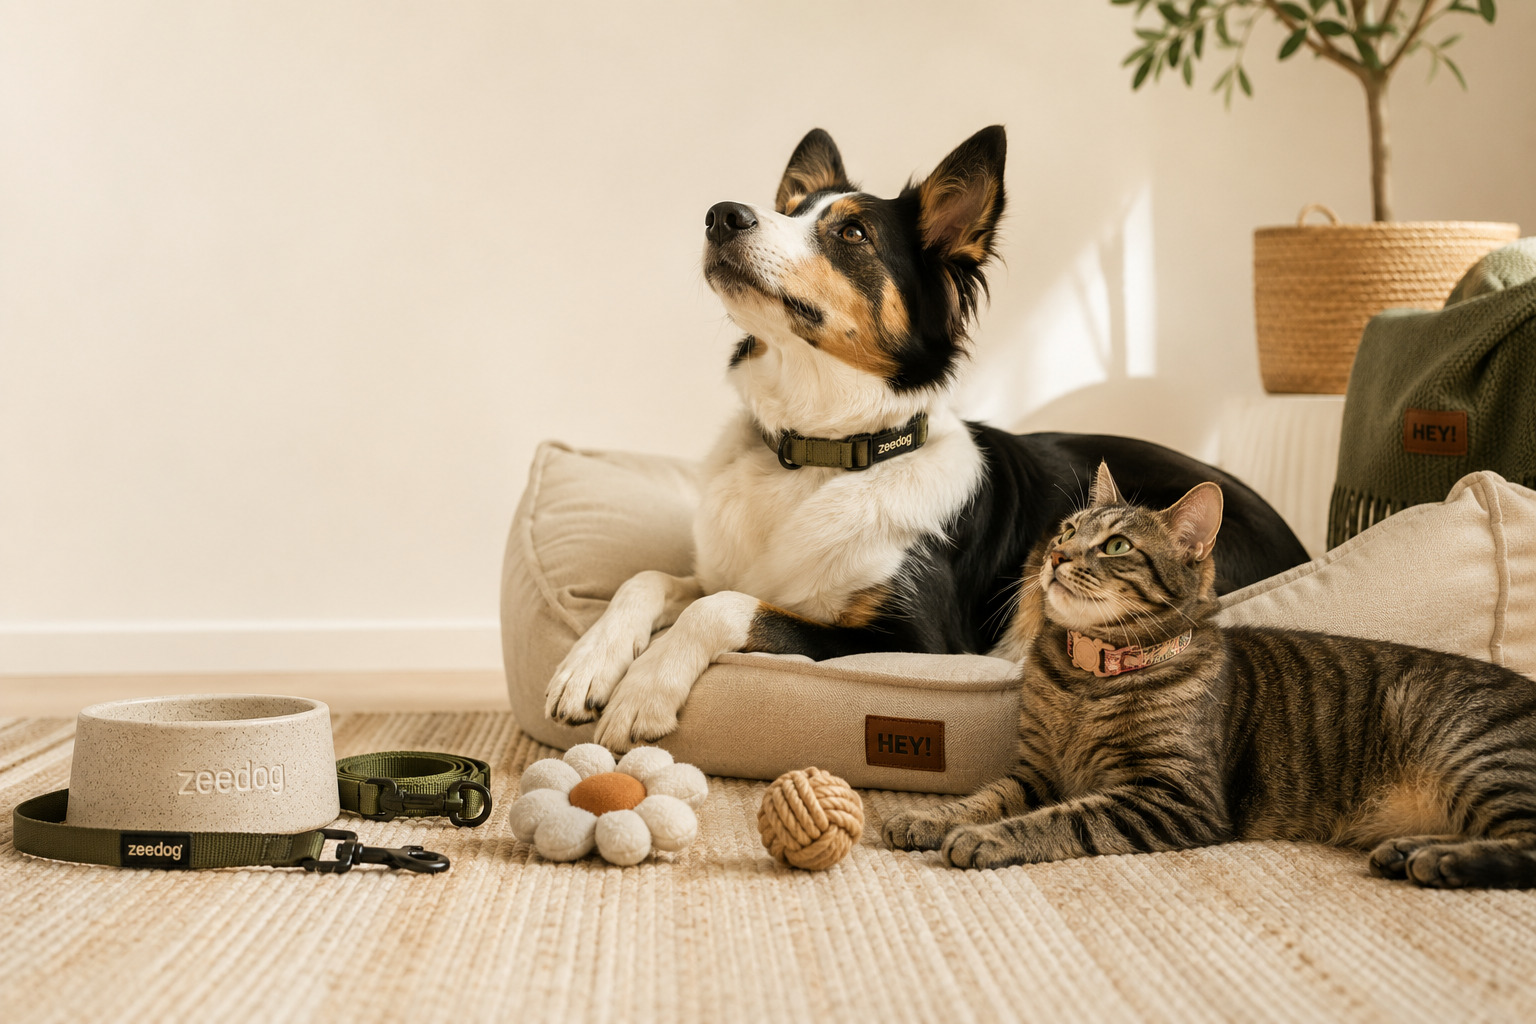
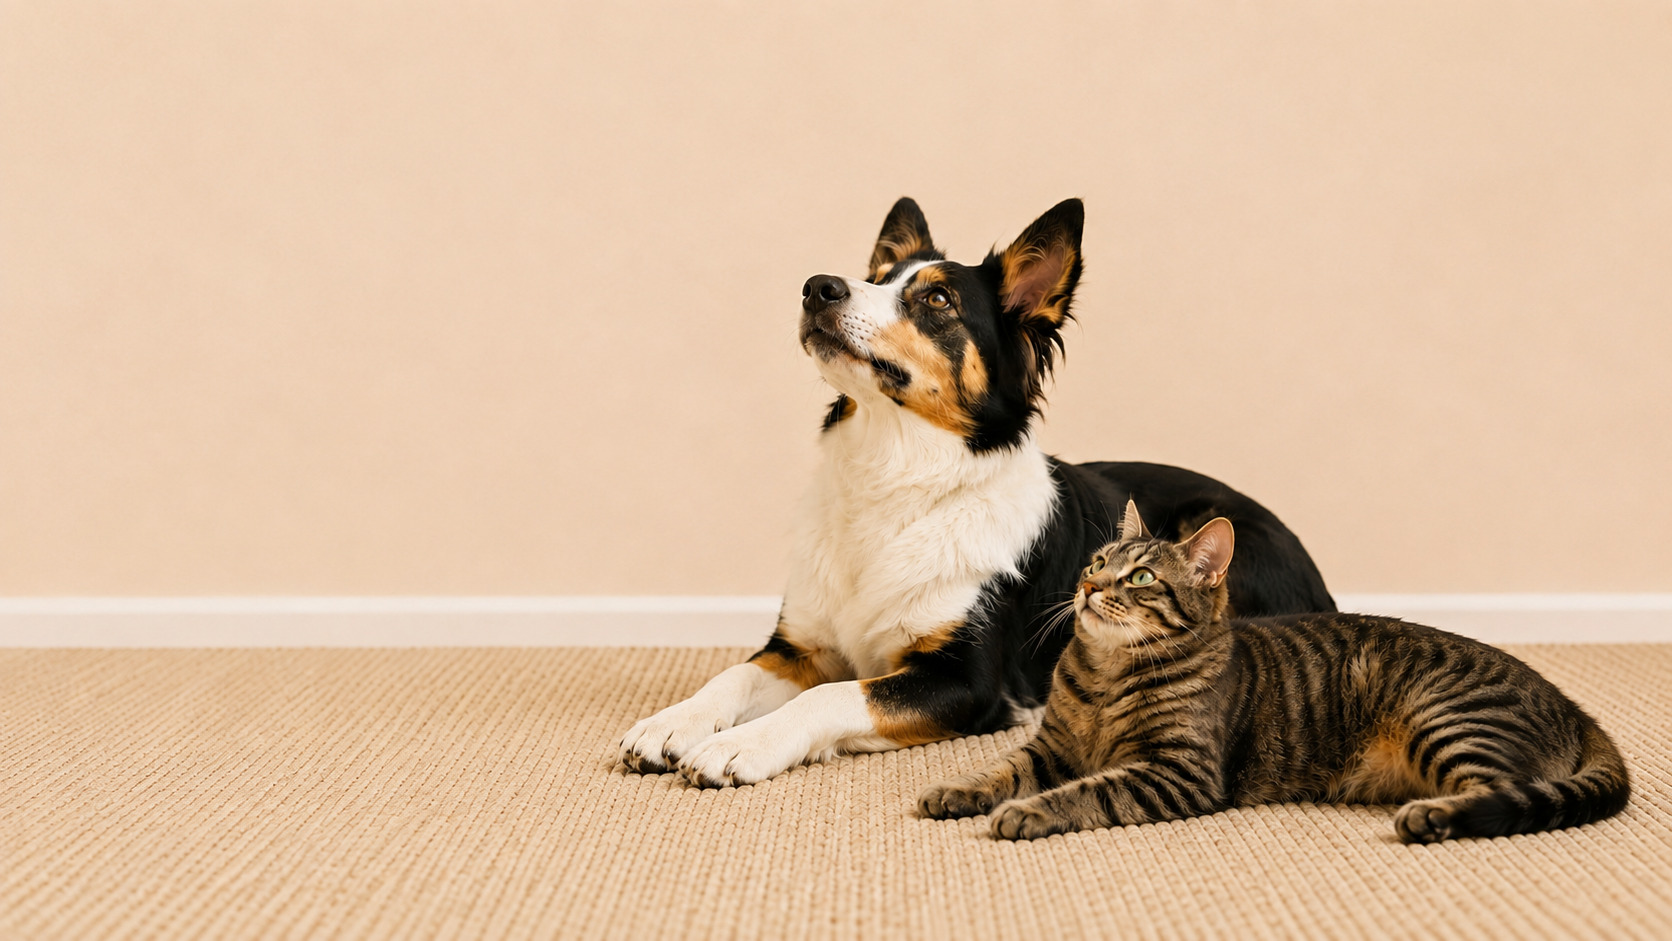
x

diff --git a/index.html b/index.html
@@ -633,7 +633,7 @@ height="0" width="0" style="display:none;visibility:hidden"></iframe></noscript>
       <li><a href="/tienda">Tienda</a></li>
       <li class="nav-item"><a href="/tienda?aud=Perros">Perros</a><div class="mega-menu"><div class="mega-col"><a href="/tienda?aud=Perros&cat=Alimentos"><h4>Alimentos</h4></a></div><div class="mega-col"><a href="/tienda?aud=Perros&cat=Snacks y Golosinas"><h4>Snacks</h4></a></div><div class="mega-col"><a href="/tienda?aud=Perros&cat=Accesorio"><h4>Accesorios</h4></a></div><div class="mega-col"><a href="/tienda?aud=Perros&cat=Aseo e Higiene"><h4>Cuidado e Higiene</h4></a></div><div class="mega-col"><a href="/tienda?aud=Perros&cat=Flores de Bach"><h4>Bienestar Natural</h4></a></div></div></li>
       <li class="nav-item"><a href="/tienda?aud=Gatos">Gatos</a><div class="mega-menu"><div class="mega-col"><a href="/tienda?aud=Gatos&cat=Alimentos"><h4>Alimentos</h4></a></div><div class="mega-col"><a href="/tienda?aud=Gatos&cat=Snacks y Golosinas"><h4>Snacks</h4></a></div><div class="mega-col"><a href="/tienda?aud=Gatos&cat=Accesorio"><h4>Accesorios</h4></a></div><div class="mega-col"><a href="/tienda?aud=Gatos&cat=Aseo e Higiene"><h4>Cuidado e Higiene</h4></a></div><div class="mega-col"><a href="/tienda?aud=Gatos&cat=Flores de Bach"><h4>Bienestar Natural</h4></a></div></div></li>
-      <li><a href="/suscripciones">Suscripciones</a></li>
+      <li><a href="/tienda">Explorar tienda</a></li>
       <li><a href="/blog">Blog</a></li>
     </ul>
   </div>
@@ -673,7 +673,7 @@ height="0" width="0" style="display:none;visibility:hidden"></iframe></noscript>
     </div>
   </div>
 
-  <a href="/suscripciones" onclick="toggleMenu()">Suscripciones</a>
+  <a href="/tienda" onclick="toggleMenu()">Explorar tienda</a>
   <a href="/blog" onclick="toggleMenu()">Blog</a>
 </div>
 
@@ -704,17 +704,17 @@ height="0" width="0" style="display:none;visibility:hidden"></iframe></noscript>
         <p class="hero-cta-label">Diseño para mascotas</p>
         <h1>Accesorios que combinan estilo y bienestar.</h1>
         <p>Explora productos seleccionados para perros y gatos.</p>
-        <a href="/tienda?marca=zeedog" class="hero-cta-button">Explorar productos</a>
+        <a href="/tienda?marca=zeedog" class="hero-cta-button">Ver snacks</a>
       </div>
     </div>
     <div class="hero-slide">
-      <img class="desktop" src="hero-slide2-desktop.jpg" alt="Caja Caótica Suscripciones">
-      <img class="mobile" src="slide2-mobile.jpg" alt="Caja Caótica Suscripciones">
+      <img class="desktop" src="hero-slide2-desktop.jpg" alt="Caja Caótica Explorar tienda">
+      <img class="mobile" src="slide2-mobile.jpg" alt="Caja Caótica Explorar tienda">
       <div class="hero-cta-card">
         <p class="hero-cta-label">Caja Caótica</p>
         <h2>Su caja favorita, entregada cada mes.</h2>
         <p>Planes pensados para las necesidades de tu mascota.</p>
-        <a href="/suscripciones" class="hero-cta-button">Conocer suscripciones</a>
+        <a href="/tienda" class="hero-cta-button">Conocer suscripciones</a>
       </div>
     </div>
   </div>
@@ -758,7 +758,7 @@ height="0" width="0" style="display:none;visibility:hidden"></iframe></noscript>
     </div>
   </div>
   <div class="cat-grid" id="cat-grid">
-    <div class="cat-card" onclick="window.location.href='/suscripciones'"><img class="cat-img" src="categoria-suscripciones.jpg" alt="Suscripciones" loading="lazy"></div>
+    <div class="cat-card" onclick="window.location.href='/suscripciones'"><img class="cat-img" src="categoria-suscripciones.jpg" alt="Explorar tienda" loading="lazy"></div>
     <div class="cat-card" onclick="window.location.href='/tienda?aud=Perros'"><img class="cat-img" src="categoria-perros.jpg" alt="Perros" loading="lazy"></div>
     <div class="cat-card" onclick="window.location.href='/tienda?aud=Gatos'"><img class="cat-img" src="categoria-gatos.jpg" alt="Gatos" loading="lazy"></div>
     <div class="cat-card" onclick="window.location.href='/tienda?cat=Alimentos'"><img class="cat-img" src="categoria-alimentos.jpg" alt="Alimentos" loading="lazy"></div>
@@ -790,7 +790,7 @@ height="0" width="0" style="display:none;visibility:hidden"></iframe></noscript>
     <img src="hero-slide2-desktop.jpg" alt="Caja Caótica de suscripción para mascotas" loading="lazy">
   </div>
   <div class="home-subscription-copy">
-    <p class="section-label">Suscripciones</p>
+    <p class="section-label">Explorar tienda</p>
     <h2 id="home-subscription-title">La Caja Caótica, sin compras repetitivas.</h2>
     <p>Recibe periódicamente una selección pensada para tu mascota. Revisa los planes disponibles, su frecuencia y condiciones antes de suscribirte.</p>
     <div class="home-subscription-points">
@@ -798,7 +798,7 @@ height="0" width="0" style="display:none;visibility:hidden"></iframe></noscript>
       <span>Entrega programada</span>
       <span>Gestión desde tu cuenta</span>
     </div>
-    <a href="/suscripciones" class="home-secondary-button">Ver planes de suscripción</a>
+    <a href="/tienda" class="home-secondary-button">Ver planes de suscripción</a>
   </div>
 </section>
 
